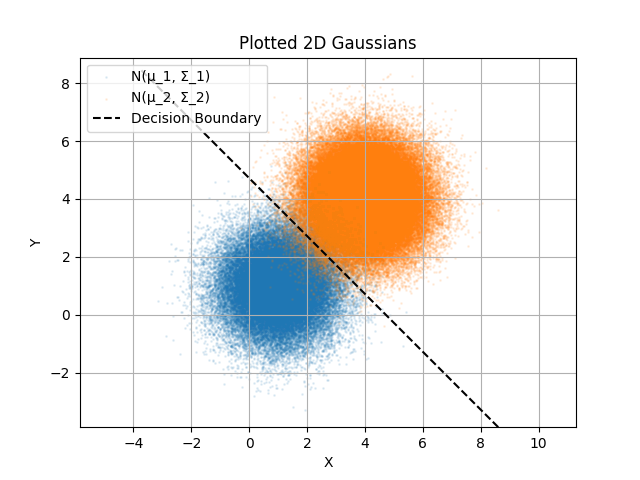
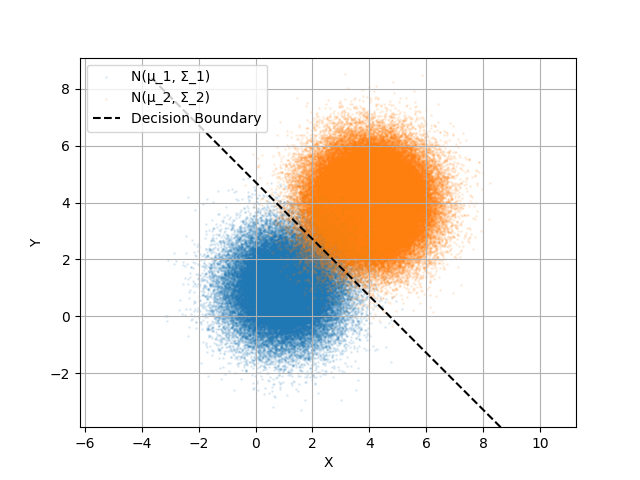
hide titles for report

diff --git a/generate_normals.py b/generate_normals.py
@@ -75,7 +75,7 @@ def plot_2d_gas(
         plt.contour(xx, yy, z, levels=[0], colors="black", linestyles="--")
         plt.plot([], [], "k--", label="Decision Boundary")
 
-    plt.title(title)
+    # plt.title(title)
     plt.xlabel("X")
     plt.ylabel("Y")
     plt.axis("equal")
